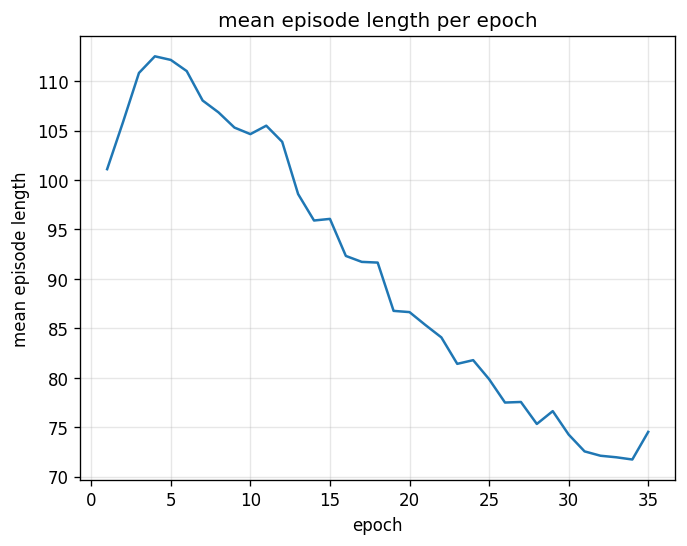
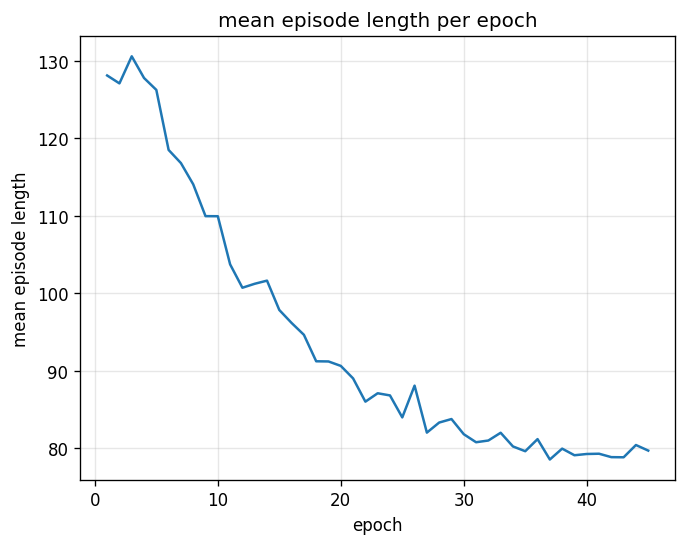
tuning

diff --git a/main.py b/main.py
@@ -16,7 +16,7 @@ FIGURES_DIR = "figures"
 ENV_ID = "LunarLander-v3"
 ENV_KWARGS = dict(
     continuous=True,
-    gravity=-10.0,
+    gravity=-8.0,
     enable_wind=False,
     wind_power=15.0,
     turbulence_power=1.5,
@@ -50,7 +50,7 @@ class Policy(nn.Module):
         return action, log_prob, entropy
 
 
-def train(lr=1e-3, epochs=35, batch_size=90000, gamma=0.985, entropy_coef=0.01, render=False):
+def train(lr=1e-3, epochs=45, batch_size=90000, gamma=0.985, entropy_coef=0.001, render=False):
     os.makedirs(CHECKPOINT_DIR, exist_ok=True)
 
     env = gym.make(ENV_ID, **ENV_KWARGS)
